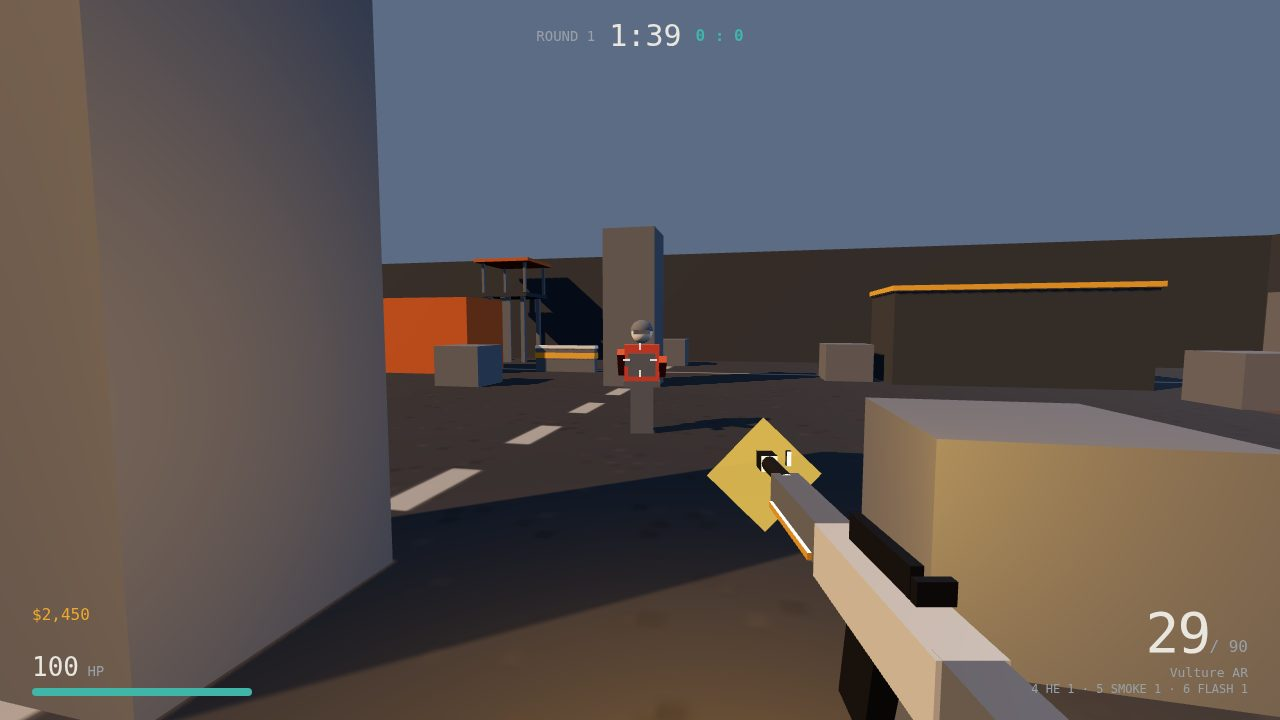
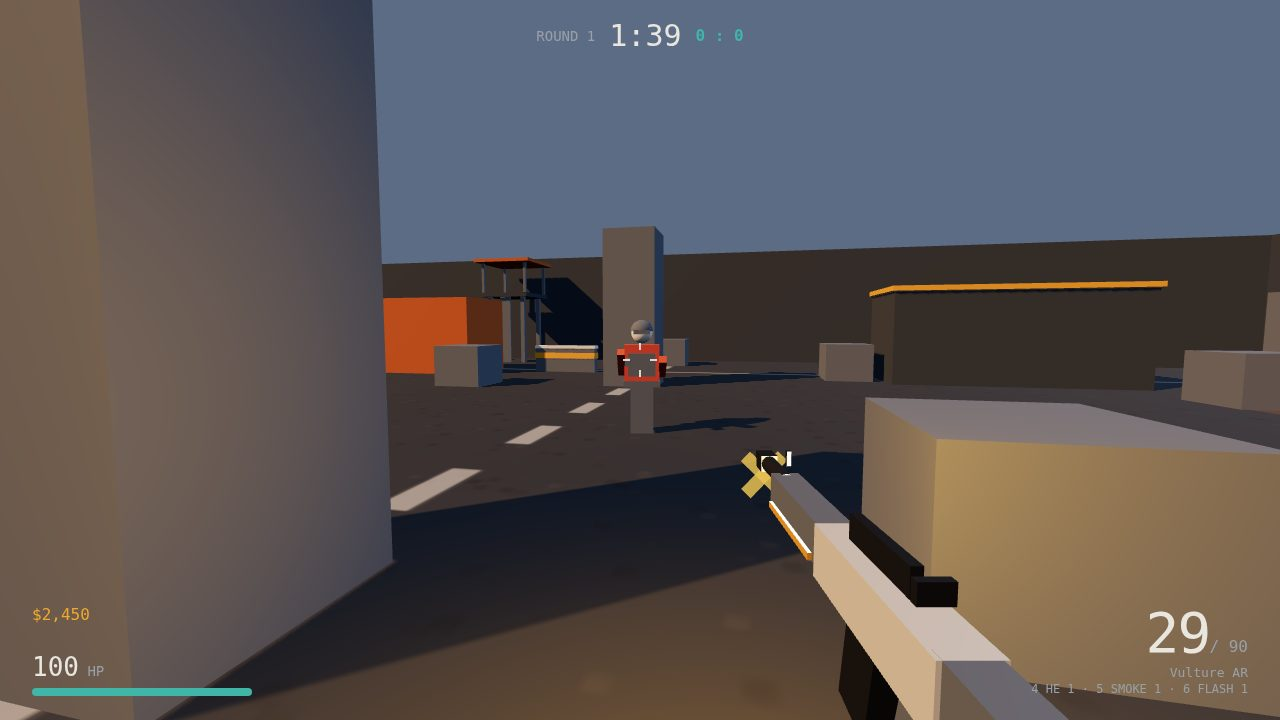
Muzzle flash: smaller four-point star

Changed region(s): [[0.5312, 0.5806, 0.6562, 0.7333]]

diff --git a/game/src/weapons.js b/game/src/weapons.js
@@ -97,10 +97,10 @@ export function createWeapon(camera) {
   const accent = new THREE.MeshStandardMaterial({ color: new THREE.Color(PALETTE.accent), roughness: 0.45, metalness: 0.25 });
   const mats = { grip, body, dark, accent };
   const model = new THREE.Group();
-  const flash = new THREE.Mesh(
-    new THREE.PlaneGeometry(0.17, 0.17),
-    new THREE.MeshBasicMaterial({ color: new THREE.Color(PALETTE.accent), transparent: true, opacity: 0.9, depthWrite: false, side: THREE.DoubleSide }),
-  );
+  const flashMat = new THREE.MeshBasicMaterial({ color: new THREE.Color(PALETTE.accent), transparent: true, opacity: 0.85, depthWrite: false, side: THREE.DoubleSide });
+  const flash = new THREE.Group();
+  flash.add(new THREE.Mesh(new THREE.PlaneGeometry(0.11, 0.028), flashMat));
+  flash.add(new THREE.Mesh(new THREE.PlaneGeometry(0.028, 0.11), flashMat));
   flash.position.set(0.26, -0.24, -1.0);
   flash.visible = false;
   camera.add(flash);
